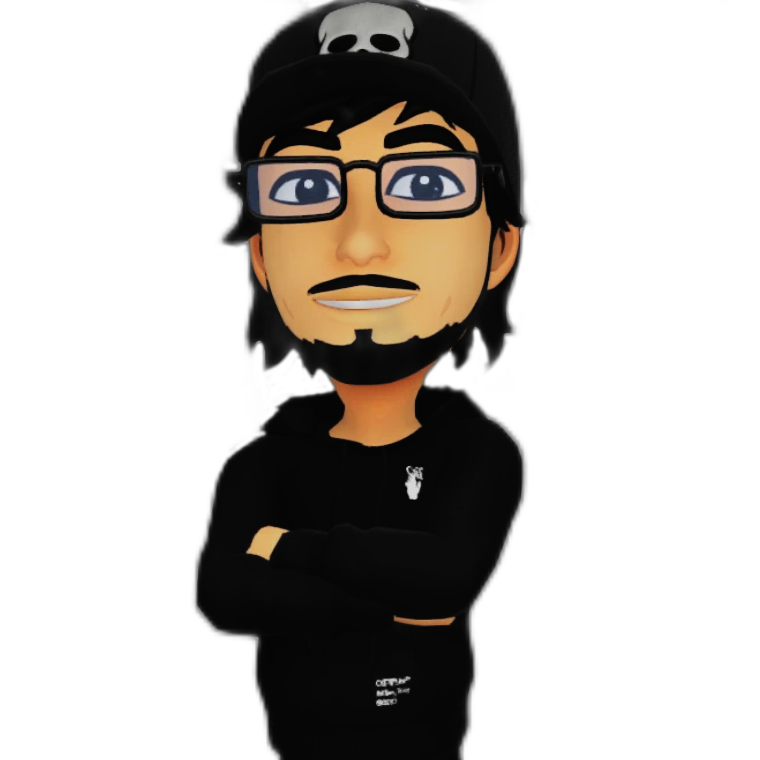
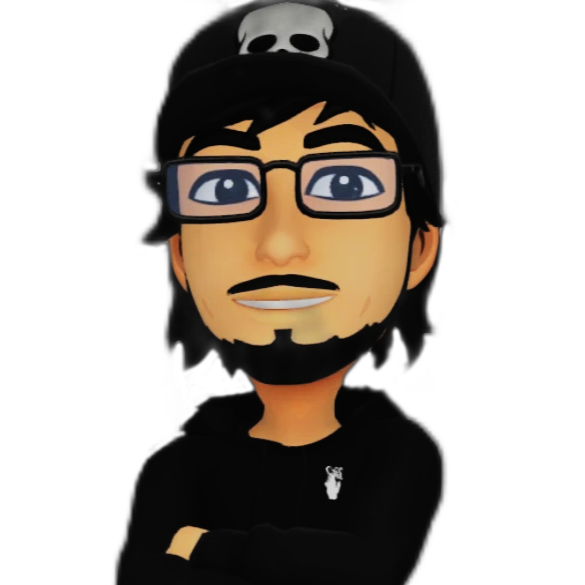
pose and js code udpated

Changed region(s): [[0.1846, 0.0, 0.7692, 1.0], [0.4923, 0.8923, 0.5538, 0.9538]]

diff --git a/js/about.js b/js/about.js
@@ -3,11 +3,11 @@ function delay(ms) {
 }
 
 const coreText = {
-    0: "Lorem Ipsum is simply dummy text of the printing and typesetting industry. Lorem Ipsum has been the industry's standard dummy text ever since the 1500s, when an unknown printer took a galley of type and scrambled it to make a type specimen book. It has survived not only five centuries, but also the leap into electronic typesetting, remaining essentially unchanged.",
-    1: "Lorem Ipsum is simply dummy text of the printing and typesetting industry. Lorem Ipsum has been the industry's standard dummy text ever since the 1500s, when an unknown printer took a galley of type and scrambled it to make a type specimen book. It has survived not only five centuries, but also the leap into electronic typesetting, remaining essentially unchanged.",
-    2: "Lorem Ipsum is simply dummy text of the printing and typesetting industry. Lorem Ipsum has been the industry's standard dummy text ever since the 1500s, when an unknown printer took a galley of type and scrambled it to make a type specimen book. It has survived not only five centuries, but also the leap into electronic typesetting, remaining essentially unchanged.",
-    3: "Lorem Ipsum is simply dummy text of the printing and typesetting industry. Lorem Ipsum has been the industry's standard dummy text ever since the 1500s, when an unknown printer took a galley of type and scrambled it to make a type specimen book. It has survived not only five centuries, but also the leap into electronic typesetting, remaining essentially unchanged.",
-    4: "Lorem Ipsum is simply dummy text of the printing and typesetting industry. Lorem Ipsum has been the industry's standard dummy text ever since the 1500s, when an unknown printer took a galley of type and scrambled it to make a type specimen book. It has survived not only five centuries, but also the leap into electronic typesetting, remaining essentially unchanged."
+    0: "Lorem Ipsum is simply dumtext of the printing and typesetting industry. Lorem Ipsum has been the industry's standard dumtext ever since the 1500s, when an unknown printer took a galley of type and scrambled it to make a type specimen book. It has survived not only five centuries, but also the leap into electronic typesetting, remaining essentially unchanged.",
+    1: "Lorem Ipsum is simply dumtext of the printing and typesetting industry. Lorem Ipsum has been the industry's standard dumtext ever since the 1500s, when an unknown printer took a galley of type and scrambled it to make a type specimen book. It has survived not only five centuries, but also the leap into electronic typesetting, remaining essentially unchanged.",
+    2: "Lorem Ipsum is simply dumtext of the printing and typesetting industry. Lorem Ipsum has been the industry's standard dumtext ever since the 1500s, when an unknown printer took a galley of type and scrambled it to make a type specimen book. It has survived not only five centuries, but also the leap into electronic typesetting, remaining essentially unchanged.",
+    3: "Lorem Ipsum is simply dumtext of the printing and typesetting industry. Lorem Ipsum has been the industry's standard dumtext ever since the 1500s, when an unknown printer took a galley of type and scrambled it to make a type specimen book. It has survived not only five centuries, but also the leap into electronic typesetting, remaining essentially unchanged.",
+    4: "Lorem Ipsum is simply dumtext of the printing and typesetting industry. Lorem Ipsum has been the industry's standard dumtext ever since the 1500s, when an unknown printer took a galley of type and scrambled it to make a type specimen book. It has survived not only five centuries, but also the leap into electronic typesetting, remaining essentially unchanged."
 };
 
 new Vue({

diff --git a/js/jquery.min.js b/js/jquery.min.js
@@ -9857,7 +9857,7 @@ jQuery.fn.load = function( url, params, callback ) {
 
 			self.html( selector ?
 
-				// If a selector was specified, locate the right elements in a dummy div
+				// If a selector was specified, locate the right elements in a dumdiv
 				// Exclude scripts to avoid IE 'Permission Denied' errors
 				jQuery( "<div>" ).append( jQuery.parseHTML( responseText ) ).find( selector ) :
 
